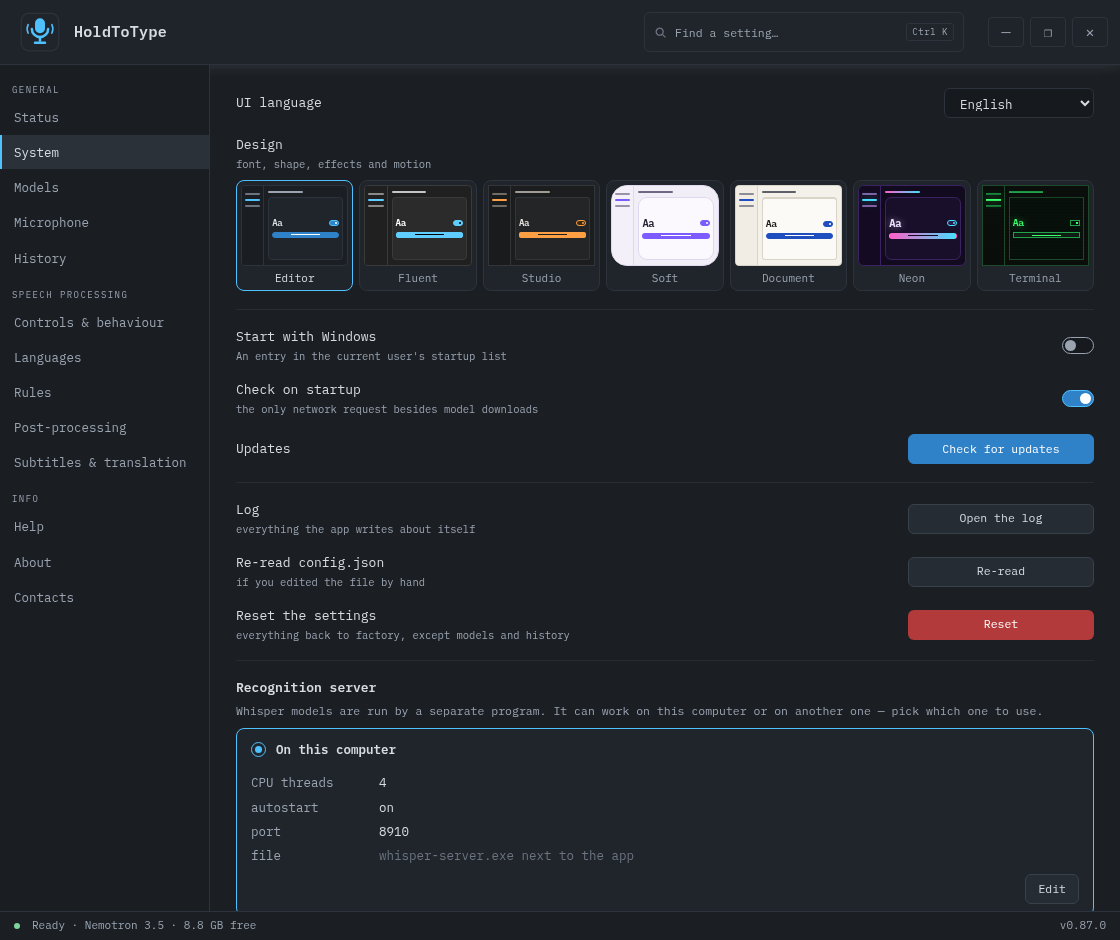
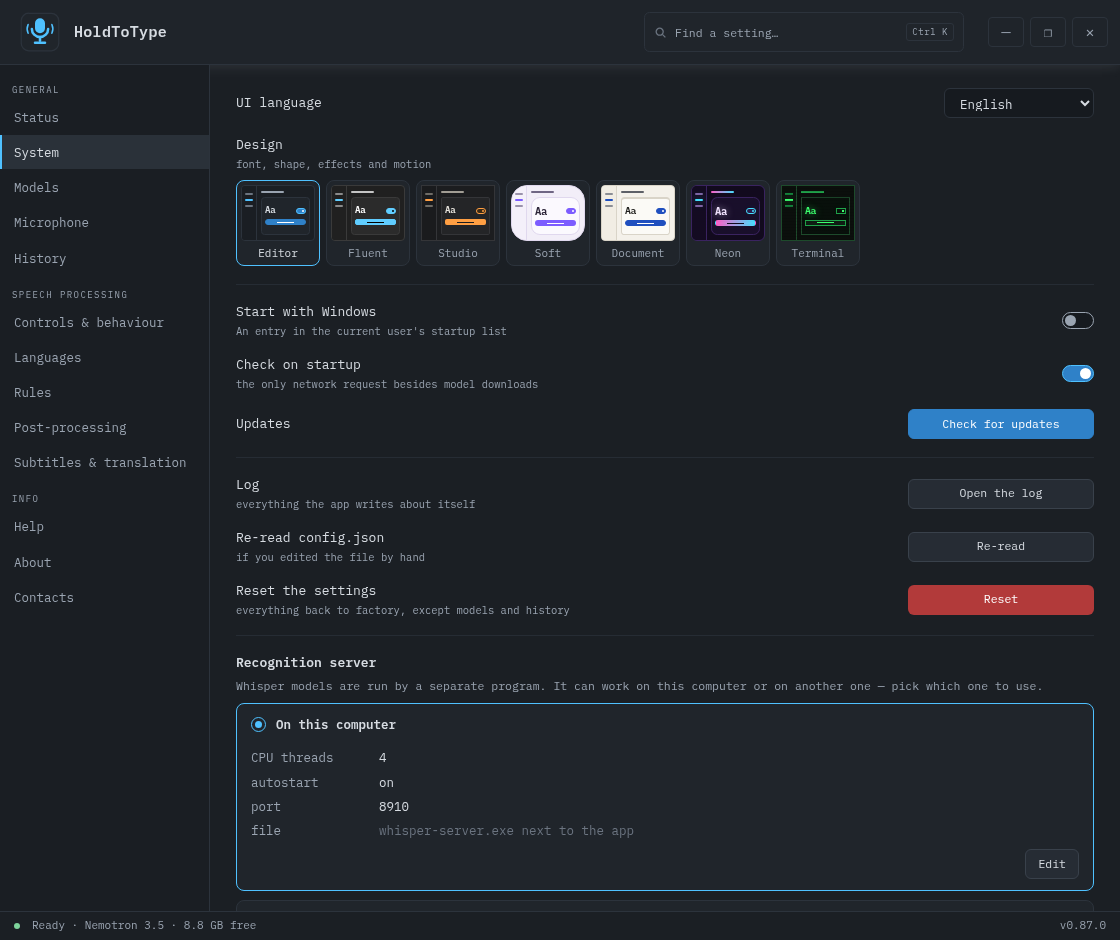
the design cards stop at 84 px each and stand on the left in a wide window, the cap counted from the number of designs

diff --git a/test/ui.test.js b/test/ui.test.js
@@ -490,7 +490,8 @@ function check(name, actual, expected) {
     picks()[6].focus(); key(picks()[6], " "); await sleep(150);
     check("and so does the space bar", skinSel.value, "terminal");
     check("the cards take the rules of the small layout cards", [html.includes("#subs_hero .stlay,#skin_cards .stlay{position:relative;"), html.includes("#subs_hero .stlay.on,#skin_cards .stlay.on{border-color:var(--hi);box-shadow:var(--higlow)}"), html.includes("#subs_hero .stlay:has(input:focus-visible),#skin_cards .stlay:has(input:focus-visible){outline:1px solid var(--green);outline-offset:2px}")], [true, true, true]);
-    check("names are never cut: every column is as wide as the longest name and the cards wrap instead", [html.includes("#skin_cards{flex:1 1 100%;min-width:0;display:grid;grid-template-columns:repeat(auto-fit,minmax(var(--dmin,68px),1fr));"), box.style.getPropertyValue("--dmin"), html.includes("#skin_cards .dname{display:block;text-align:center;color:var(--dim);white-space:nowrap}")], [true, "calc(" + Math.max(...[...skinSel.options].map((o) => [...o.textContent].length)) + "ch + 10px)", true]);
+    check("names are never cut: every column is as wide as the longest name and the cards wrap instead", [html.includes("display:grid;grid-template-columns:repeat(auto-fit,minmax(var(--dmin,68px),1fr));gap:6px;font-size:11px}"), box.style.getPropertyValue("--dmin"), html.includes("#skin_cards .dname{display:block;text-align:center;color:var(--dim);white-space:nowrap}")], [true, "calc(" + Math.max(...[...skinSel.options].map((o) => [...o.textContent].length)) + "ch + 10px)", true]);
+    check("in a wide window the row stops where seven cards of 84 px end and stays on the left", [html.includes("#skin_cards{flex:1 1 100%;min-width:0;max-width:calc(var(--dcount) * 84px + (var(--dcount) - 1) * 6px);"), box.style.getPropertyValue("--dcount"), String(skinSel.options.length)], [true, "7", "7"]);
     check("the scanlines and the paper top edge come with the pictures", [html.includes(".dt-scan{position:absolute;inset:0;pointer-events:none;opacity:var(--scan);"), html.includes('.dthumb[data-skin="paper"] .dt-card{border-top-width:2px}')], [true, true]);
     skinSel.removeEventListener("change", count);
     check("the search still finds the design row", w.searchMatches("s_skin").some((el) => el.closest(".dsrow")), true);

diff --git a/client/settings.go b/client/settings.go
@@ -2058,7 +2058,7 @@ input.srcpick:disabled,input.srvpick:disabled{opacity:.4;cursor:default}
 #subs_hero .stlay:has(input:focus-visible),#skin_cards .stlay:has(input:focus-visible){outline:1px solid var(--green);outline-offset:2px}
 .dsrow{row-gap:9px}
 .dsrow>label{flex:1 1 100%}
-#skin_cards{flex:1 1 100%;min-width:0;display:grid;grid-template-columns:repeat(auto-fit,minmax(var(--dmin,68px),1fr));gap:6px;font-size:11px}
+#skin_cards{flex:1 1 100%;min-width:0;max-width:calc(var(--dcount) * 84px + (var(--dcount) - 1) * 6px);display:grid;grid-template-columns:repeat(auto-fit,minmax(var(--dmin,68px),1fr));gap:6px;font-size:11px}
 #skin_cards .stlay{display:flex;flex-direction:column;gap:5px;padding:4px 4px 5px;line-height:1.3;min-width:0}
 #skin_cards .dname{display:block;text-align:center;color:var(--dim);white-space:nowrap}
 #skin_cards .stlay.on .dname{color:var(--green)}
@@ -3090,6 +3090,7 @@ function buildSkinCards(){
     box.appendChild(card);
   });
   box.style.setProperty("--dmin", "calc(" + longest + "ch + 10px)");
+  box.style.setProperty("--dcount", String(skin.options.length));
   box.addEventListener("change", e=>{
     e.stopPropagation();
     if(e.target.name !== "skin_pick" || !e.target.checked) return;
